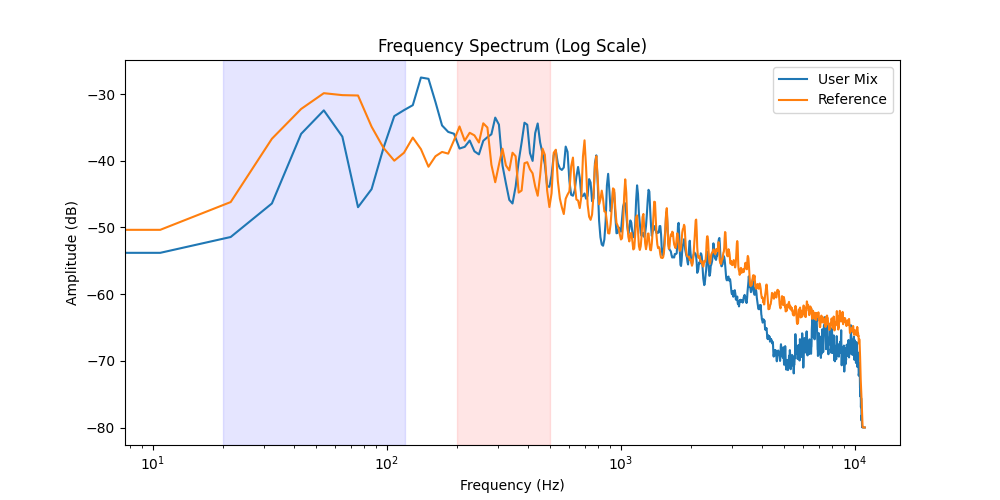
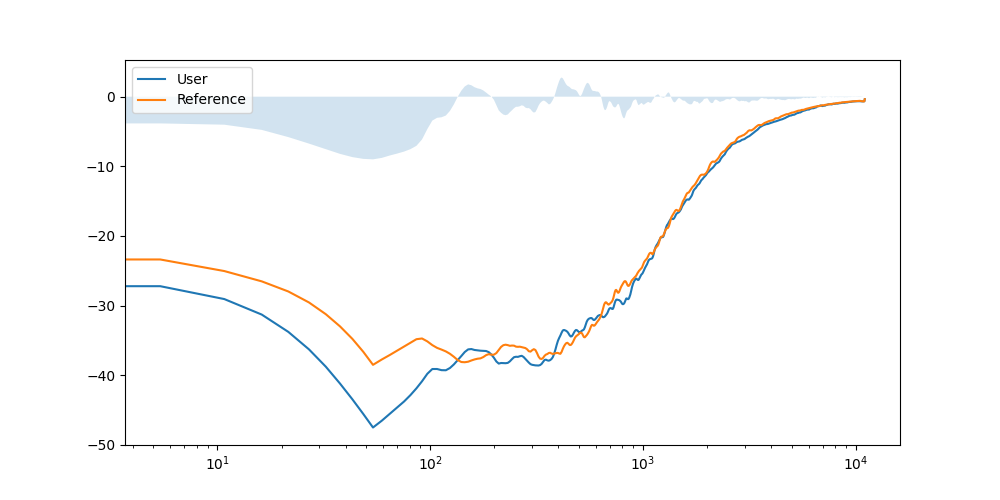
v2.6: Added masking detection, LUFS loudness analysis, and priority-based issue ranking

diff --git a/src/analysis.py b/src/analysis.py
@@ -2,113 +2,173 @@ import numpy as np
 import librosa
 import matplotlib.pyplot as plt
 import os
+import pyloudnorm as pyln
 
 
 def analyze_mix(y1, sr1, y2, sr2, output_dir="outputs"):
     os.makedirs(output_dir, exist_ok=True)
 
-    # ---------- FFT ----------
+    # ---------- NORMALIZE ----------
+    y1 = y1 / np.max(np.abs(y1))
+    y2 = y2 / np.max(np.abs(y2))
+
+    # ---------- SPECTRUM ----------
     def get_spectrum(y, sr):
-        S = np.abs(librosa.stft(y, n_fft=2048))
+        n_fft = 4096
+
+        S = np.abs(librosa.stft(y, n_fft=n_fft))
         S_db = librosa.amplitude_to_db(S, ref=np.max)
-        freqs = librosa.fft_frequencies(sr=sr)
+
         avg = np.mean(S_db, axis=1)
+        avg = np.convolve(avg, np.ones(20)/20, mode='same')
+
+        freqs = librosa.fft_frequencies(sr=sr, n_fft=n_fft)
         return freqs, avg
 
     f1, s1 = get_spectrum(y1, sr1)
     f2, s2 = get_spectrum(y2, sr2)
 
-    # ---------- Bands (SAFE) ----------
+    # ---------- ALIGN ----------
+    min_len = min(len(s1), len(s2))
+    s1, s2 = s1[:min_len], s2[:min_len]
+    f1 = f1[:min_len]
+
+    # ---------- PERCEPTUAL ----------
+    w = 1 / (1 + (f1 / 1000)**2)
+    s1 *= w
+    s2 *= w
+
+    # ---------- BAND ENERGY ----------
     def band_energy(freqs, spec, low, high):
         mask = (freqs >= low) & (freqs <= high)
         if np.sum(mask) == 0:
             return 0
-        return np.mean(spec[mask])
+        return np.median(spec[mask])
 
-    user_low = band_energy(f1, s1, 20, 120)
-    user_mid = band_energy(f1, s1, 200, 500)
-    user_high = band_energy(f1, s1, 2000, 5000)
-
-    ref_low = band_energy(f2, s2, 20, 120)
-    ref_mid = band_energy(f2, s2, 200, 500)
-    ref_high = band_energy(f2, s2, 2000, 5000)
-
-    # ---------- Scores ----------
-    def score(user, ref):
-        diff = abs(user - ref)
-        return max(0, 100 - diff * 2)
-
-    low_score = score(user_low, ref_low)
-    mid_score = score(user_mid, ref_mid)
-    high_score = score(user_high, ref_high)
-
-    overall = (low_score + mid_score + high_score) / 3
-
-    scores = {
-        "low": round(low_score, 1),
-        "mid": round(mid_score, 1),
-        "high": round(high_score, 1),
-        "overall": round(overall, 1),
-        "match": round(overall, 1)
+    bands = {
+        "sub": (20, 60),
+        "low": (60, 120),
+        "lowmid": (120, 400),
+        "mid": (400, 2000),
+        "presence": (2000, 5000),
+        "air": (5000, 10000)
     }
 
-    # ---------- INTELLIGENCE ----------
+    user_vals = {b: band_energy(f1, s1, *bands[b]) for b in bands}
+    ref_vals = {b: band_energy(f1, s2, *bands[b]) for b in bands}
+
+    # ---------- SCORE ----------
+    def score(u, r):
+        return max(0, 100 * np.exp(-abs(u - r) / 10))
+
+    scores = {b: round(score(user_vals[b], ref_vals[b]), 1) for b in bands}
+    scores["overall"] = round(np.mean(list(scores.values())), 1)
+    scores["match"] = scores["overall"]
+
+    # ---------- NORMALIZED DIFF ----------
+    def norm_diff(u, r):
+        return (u - r) / (abs(r) + 1e-6)
+
+    diffs = {b: norm_diff(user_vals[b], ref_vals[b]) for b in bands}
+
     issues = []
 
-    mid_diff = user_mid - ref_mid
-    if mid_diff > 2:
-        confidence = min(100, abs(mid_diff) * 10)
+    # ---------- CORE ISSUES ----------
+    if diffs["lowmid"] > 0.15:
         issues.append({
             "type": "Muddiness",
-            "range": "200–500 Hz",
-            "severity": "High" if confidence > 60 else "Medium",
-            "confidence": round(confidence, 1),
-            "why": "Too much energy in low-mids causes instruments to overlap.",
-            "fix": "Reduce 250–400 Hz by 2–4 dB."
+            "range": "120–400 Hz",
+            "severity": "High",
+            "confidence": round(abs(diffs["lowmid"]) * 100, 1),
+            "why": "Excess low-mid energy reduces clarity.",
+            "fix": "Cut 200–350 Hz."
         })
 
-    high_diff = ref_high - user_high
-    if high_diff > 2:
+    if abs(diffs["low"]) > 0.15:
+        issues.append({
+            "type": "Low-End Imbalance",
+            "range": "60–120 Hz",
+            "severity": "Medium",
+            "confidence": round(abs(diffs["low"]) * 100, 1),
+            "why": "Kick and bass are unbalanced.",
+            "fix": "Use EQ or sidechain."
+        })
+
+    if diffs["presence"] < -0.15:
         issues.append({
             "type": "Low Presence",
             "range": "2k–5k Hz",
             "severity": "Medium",
-            "confidence": round(high_diff * 10, 1),
+            "confidence": round(abs(diffs["presence"]) * 100, 1),
             "why": "Mix lacks clarity.",
-            "fix": "Boost 3–5 kHz slightly."
+            "fix": "Boost 3–5 kHz."
         })
 
-    low_diff = user_low - ref_low
-    if abs(low_diff) > 3:
+    # ---------- MASKING ----------
+    def detect_masking(freqs, u, r):
+        res = []
+        diff = u - r
+
+        regions = {
+            "Low-Mid Masking": (120, 400),
+            "Mid Masking": (400, 2000),
+            "Presence Masking": (2000, 5000)
+        }
+
+        for name, (l, h) in regions.items():
+            mask = (freqs >= l) & (freqs <= h)
+            if np.sum(mask) == 0:
+                continue
+
+            d = np.mean(diff[mask])
+
+            if d > 3:
+                res.append({
+                    "type": name,
+                    "range": f"{l}–{h} Hz",
+                    "severity": "High" if d > 6 else "Medium",
+                    "confidence": round(d * 10, 1),
+                    "why": "Frequency overlap causing masking.",
+                    "fix": "Use EQ separation."
+                })
+        return res
+
+    issues.extend(detect_masking(f1, s1, s2))
+
+    # ---------- LUFS ----------
+    meter = pyln.Meter(sr1)
+    user_lufs = meter.integrated_loudness(y1)
+    ref_lufs = meter.integrated_loudness(y2)
+
+    if abs(user_lufs - ref_lufs) > 2:
         issues.append({
-            "type": "Low-End Imbalance",
-            "range": "20–120 Hz",
-            "severity": "Medium",
-            "confidence": round(abs(low_diff) * 10, 1),
-            "why": "Kick & bass conflict.",
-            "fix": "Use sidechain or EQ separation."
+            "type": "Loudness Mismatch",
+            "range": "Full",
+            "severity": "High",
+            "confidence": round(abs(user_lufs - ref_lufs) * 10, 1),
+            "why": "Loudness differs from reference.",
+            "fix": "Adjust limiter.",
+            "value": f"{user_lufs:.1f} vs {ref_lufs:.1f} LUFS"
         })
 
+    # ---------- PRIORITY ----------
+    def rank(i):
+        return (50 if i["severity"] == "High" else 30) + i["confidence"]
+
+    issues = sorted(issues, key=rank, reverse=True)
     priority = issues[0] if issues else None
 
     # ---------- PLOT ----------
+    diff_curve = s1 - s2
+
     plt.figure(figsize=(10, 5))
-    plt.semilogx(f1, s1, label="User Mix")
-    plt.semilogx(f2, s2, label="Reference")
-
-    plt.axvspan(20, 120, color='blue', alpha=0.1)
-    plt.axvspan(200, 500, color='red', alpha=0.1)
-
-    plt.title("Frequency Spectrum (Log Scale)")
-    plt.xlabel("Frequency (Hz)")
-    plt.ylabel("Amplitude (dB)")
+    plt.semilogx(f1, s1, label="User")
+    plt.semilogx(f1, s2, label="Reference")
+    plt.fill_between(f1, diff_curve, alpha=0.2)
     plt.legend()
 
     plot_path = os.path.join(output_dir, "spectrum.png")
     plt.savefig(plot_path)
     plt.close()
 
-    return {
-        "issues": issues,
-        "priority": priority
-    }, scores, plot_path
+    return {"issues": issues, "priority": priority}, scores, plot_path

diff --git a/src/app.py b/src/app.py
@@ -2,97 +2,64 @@ import streamlit as st
 import tempfile
 import os
 
-# ✅ Correct imports (same folder)
 from analysis import analyze_mix
 from audio_loader import load_audio
 
-# ---------- PAGE CONFIG ----------
-st.set_page_config(
-    page_title="AI Mixing Assistant",
-    layout="wide"
-)
-
+st.set_page_config(page_title="AI Mixing Assistant", layout="wide")
 st.title("🎧 AI Mixing Assistant")
 
-# ---------- FILE UPLOAD ----------
 col1, col2 = st.columns(2)
 
 with col1:
-    user_file = st.file_uploader("Upload Your Mix (WAV)", type=["wav"])
+    user_file = st.file_uploader("Your Mix", type=["wav"])
 
 with col2:
-    ref_file = st.file_uploader("Upload Reference Track (WAV)", type=["wav"])
+    ref_file = st.file_uploader("Reference", type=["wav"])
 
-# ---------- ANALYZE BUTTON ----------
 if st.button("Analyze Mix"):
 
     if user_file and ref_file:
 
-        # Save temp files
-        with tempfile.NamedTemporaryFile(delete=False, suffix=".wav") as f1:
+        with tempfile.NamedTemporaryFile(delete=False) as f1:
             f1.write(user_file.read())
-            user_path = f1.name
+            p1 = f1.name
 
-        with tempfile.NamedTemporaryFile(delete=False, suffix=".wav") as f2:
+        with tempfile.NamedTemporaryFile(delete=False) as f2:
             f2.write(ref_file.read())
-            ref_path = f2.name
+            p2 = f2.name
 
-        # Load audio
-        y1, sr1 = load_audio(user_path)
-        y2, sr2 = load_audio(ref_path)
+        y1, sr1 = load_audio(p1)
+        y2, sr2 = load_audio(p2)
 
-        # ---------- ANALYSIS ----------
-        results, scores, plot_path = analyze_mix(y1, sr1, y2, sr2)
+        results, scores, plot = analyze_mix(y1, sr1, y2, sr2)
 
-        # ---------- PRIORITY ----------
-        st.subheader("🎯 What to Fix First")
+        st.header("🎯 Priority")
 
         if results["priority"]:
             p = results["priority"]
-
-            st.error(
-                f"Priority Issue: {p['type']} ({p['range']})"
-            )
-
-            st.write(f"**Why:** {p['why']}")
-            st.write(f"**Fix:** {p['fix']}")
-
+            st.error(f"{p['type']} ({p['range']})")
+            st.write(p["why"])
+            st.write(p["fix"])
         else:
-            st.success("No major issues detected 🎉")
+            st.success("Clean mix")
 
-        # ---------- SCORES ----------
-        st.subheader("📊 Mix Scores")
+        st.header("📊 Scores")
 
-        st.progress(scores["low"] / 100)
-        st.write(f"Low-End: {scores['low']}")
+        for k in ["sub","low","lowmid","mid","presence","air"]:
+            st.write(f"{k}: {scores[k]}")
+            st.progress(scores[k]/100)
 
-        st.progress(scores["mid"] / 100)
-        st.write(f"Low-Mid: {scores['mid']}")
-
-        st.progress(scores["high"] / 100)
-        st.write(f"Presence: {scores['high']}")
-
-        st.progress(scores["overall"] / 100)
         st.write(f"Overall: {scores['overall']}")
+        st.progress(scores["overall"]/100)
 
-        st.write(f"🎯 Reference Match: {scores['match']}%")
+        st.write(f"Match: {scores['match']}%")
 
-        # ---------- SPECTRUM ----------
-        st.subheader("📉 Spectrum Analysis")
-        st.image(plot_path)
+        st.header("📉 Spectrum")
+        st.image(plot)
 
-        # ---------- ALL INSIGHTS ----------
-        st.subheader("🧠 AI Mix Insights")
-
-        if results["issues"]:
-            for issue in results["issues"]:
-                st.warning(
-                    f"{issue['type']} ({issue['range']}) | "
-                    f"Confidence: {issue['confidence']}% | "
-                    f"Severity: {issue['severity']}"
-                )
-        else:
-            st.info("Mix looks clean — no major problems detected.")
+        st.header("🧠 Issues")
+        for i in results["issues"]:
+            st.warning(f"{i['type']} | {i['confidence']}%")
 
     else:
-        st.warning("Please upload both files.")
+        st.warning("Upload both files")
